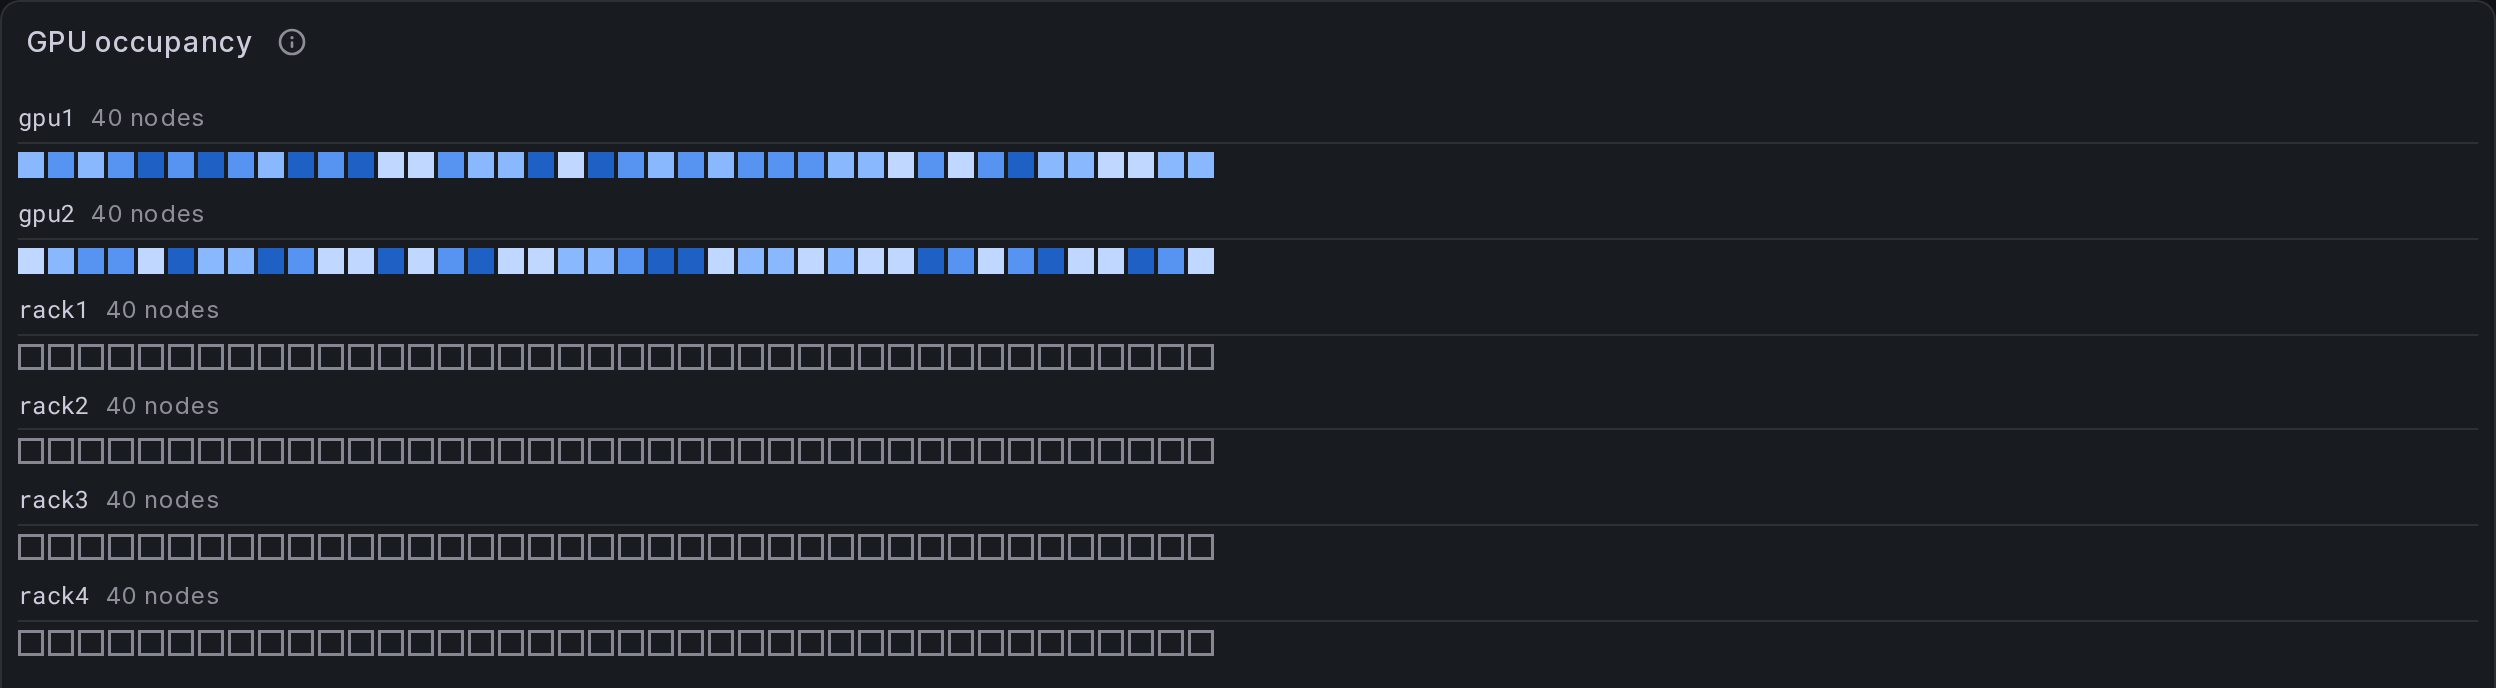
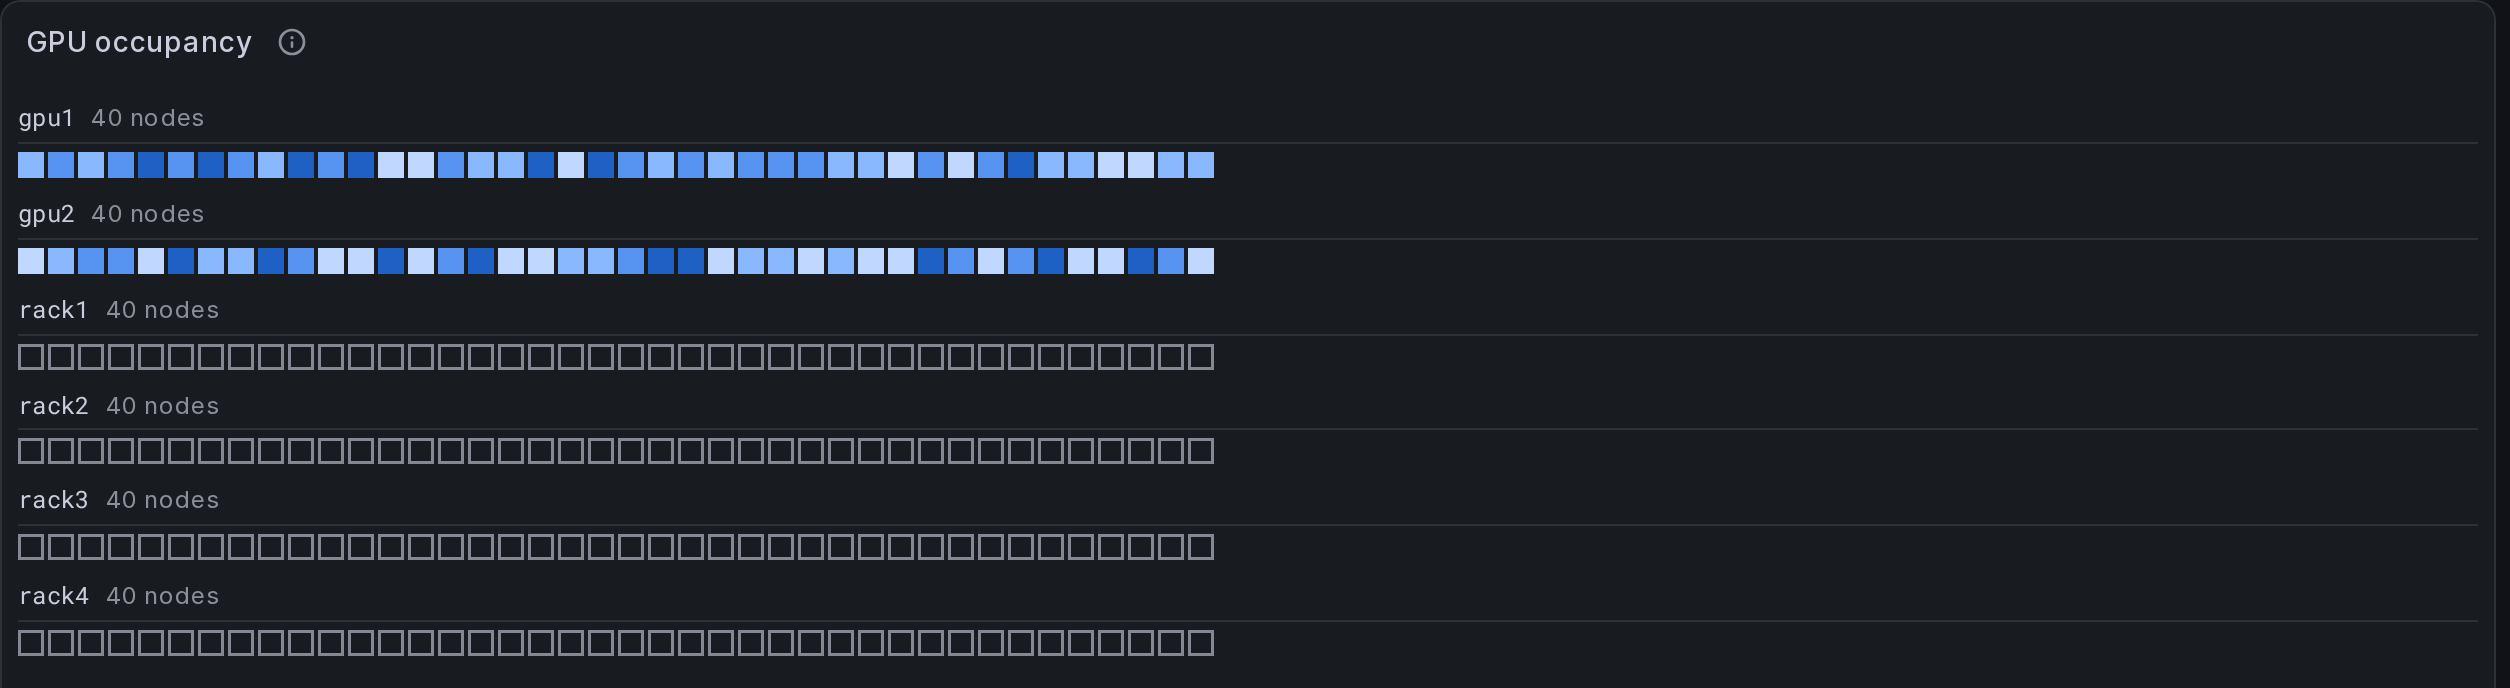
docs: show the six things the panel does, instead of describing them
Both READMEs argued for a visual panel in prose. The catalogue page had no
image at all beyond the four the manifest offers, and the repository page
had two.

Six new screenshots, one per capability that was only ever written down: a
mixed floor of two-wide and four-wide cabinets, a rack read with and
without the shape channel, the warnings strip naming two hundred nodes it
could not place, a tooltip over one cell, and the panel in a production
dashboard beside the counters it explains. The manifest offers three of
them to the catalogue.

They come from the same script as the existing four, extended rather than
worked around: it now hovers a cell and waits for the tooltip, frames a
whole dashboard at the height that dashboard actually needs, and includes
the panel title in the crop, which it had been shaving off. The four
existing images regenerate byte-identical apart from GPU occupancy, whose
fixture rolls fresh values on every scrape.

The catalogue resolves nothing relative, so the panel README's images are
absolute. Grafana's own validator says so, and now passes.

diff --git a/plugins/nodegrid-panel/src/README.md b/plugins/nodegrid-panel/src/README.md
@@ -10,6 +10,8 @@ series. This panel groups by node identity first, and says how many distinct
 nodes and how many drawn cells that produced whenever the two numbers
 disagree.
 
+![Six cabinets, one sled per node, coloured by Slurm state](https://raw.githubusercontent.com/SckyzO/grafana-plugin-slurm-panel/main/plugins/nodegrid-panel/src/img/node-grid-by-rack.png)
+
 ## Data
 
 One required query, plus a set of optional named facets. Each is bound
@@ -38,6 +40,11 @@ plugin's repository is a worked example: its panel's `options.queries` and
 `options.labels` bind every role except the two memory facets, which the
 **Memory occupancy** panel of
 `dev/provisioning/dashboards/slurm-node-utilisation.json` shows instead.
+
+Hovering a cell reads everything the panel joined for that node, whichever
+facets the queries bound:
+
+![A tooltip over one cell, naming the node, its state, its partitions and its CPU allocation](https://raw.githubusercontent.com/SckyzO/grafana-plugin-slurm-panel/main/plugins/nodegrid-panel/src/img/node-grid-tooltip.png)
 
 ## Grouping
 
@@ -172,6 +179,8 @@ supported. Neither is a cabinet that mixes blade sizes within itself:
 the drawing true. A group with no declaration keeps one sled per node, a
 vertical stack that makes no claim about where anything sits sideways.
 
+![A floor mixing two-wide and four-wide cabinets, each standing on the same line](https://raw.githubusercontent.com/SckyzO/grafana-plugin-slurm-panel/main/plugins/nodegrid-panel/src/img/node-grid-blades.png)
+
 ### Cabinet height
 
 In the Rack layout every cabinet stands on a common floor, levelled to the
@@ -199,6 +208,8 @@ the rows that do not fit spill above the frame and the warnings strip names
 it. Nothing is ever hidden, because a node that exists and is not drawn is a
 node nobody is watching.
 
+![A half-filled cabinet stands on the floor, its empty slots above it](https://raw.githubusercontent.com/SckyzO/grafana-plugin-slurm-panel/main/plugins/nodegrid-panel/src/img/node-grid-heights.png)
+
 ## Colour
 
 **Display > Colour by** picks one encoding for the cell fill at a time:
@@ -219,11 +230,19 @@ noise at a couple thousand. A cell always names its node and state in
 words, in the tooltip and in its accessible label, regardless of which
 colour mode is active, so meaning never rests on colour alone.
 
+![GPU occupancy across six racks, with the GPU-less nodes drawn empty rather than coloured](https://raw.githubusercontent.com/SckyzO/grafana-plugin-slurm-panel/main/plugins/nodegrid-panel/src/img/node-grid-gpu.png)
+
 **Display > Shape channel** adds a second encoding, on by default: a notch
 or a diagonal cut into the cell for the states that most need to stay
 visible without colour. With it on, the grid stays readable in greyscale, in
 print, under `forced-colors`, and for a red-green colour deficiency,
 whatever palette the site chose.
+
+The same rack drawn both ways. A notch survives what hue does not:
+
+| Shape channel on | Shape channel off |
+|---|---|
+| ![A rack of down nodes, each cell notched](https://raw.githubusercontent.com/SckyzO/grafana-plugin-slurm-panel/main/plugins/nodegrid-panel/src/img/node-grid-shapes.png) | ![The same rack, flat fills only](https://raw.githubusercontent.com/SckyzO/grafana-plugin-slurm-panel/main/plugins/nodegrid-panel/src/img/node-grid-noshapes.png) |
 
 ### The states, and the colour each one gets
 
@@ -276,6 +295,8 @@ seven leave the state readable and are absorbed by the trailing `.*`, which is
 why one rule covers `idle`, `idle#` and `idle@` together. `-` keeps its own
 rule so the label can say "backfill", and shares its family's colour because an
 operator does not act differently on a backfilled node.
+
+![Every Slurm state the panel ships a rule for, each drawn in its colour](https://raw.githubusercontent.com/SckyzO/grafana-plugin-slurm-panel/main/plugins/nodegrid-panel/src/img/node-grid-states.png)
 
 ### Adding or changing a state
 
@@ -354,6 +375,8 @@ not fully resolve:
   Group by > Label.` It is measured, never acted on; the panel does not
   switch sources by itself.
 
+![A warnings strip naming 200 unplaced nodes above a grid that still draws every one of them](https://raw.githubusercontent.com/SckyzO/grafana-plugin-slurm-panel/main/plugins/nodegrid-panel/src/img/node-grid-unplaced.png)
+
 Four kinds of label are never proposed, however well they would score, so
 their absence from that line is not a bug:
 
@@ -371,3 +394,11 @@ the active source does. One that merely ties says nothing.
 A state matching no mapping keeps its raw text; Grafana would colour it with
 the threshold base colour (green, by default) rather than a mapped one, so
 the cell deliberately refuses that colour and draws a hollow ring instead.
+
+## In a dashboard
+
+The panel is a floor plan, not a summary: it sits below the counters rather
+than replacing them, and answers the question they raise — *which* nodes, and
+*where*.
+
+![A production dashboard: gauges and counters above, the floor plan and a table of drain reasons below](https://raw.githubusercontent.com/SckyzO/grafana-plugin-slurm-panel/main/plugins/nodegrid-panel/src/img/node-grid-dashboard.png)

diff --git a/README.md b/README.md
@@ -27,11 +27,15 @@ The value of this panel is the join and the density, not new data.
 **One cell per node.** Distinct nodes, not series. A node in three partitions
 is one cell, and the panel says so when a node is drawn more than once.
 
+![A tooltip over one cell, naming the node, its state, its partitions and its CPU allocation](plugins/nodegrid-panel/src/img/node-grid-tooltip.png)
+
 **A floor plan, not a grid.** The rack layout draws each group as a cabinet:
 sleds wide and short, filling from the floor. A chassis holding several nodes
 is described by **Nodes per blade**, and a cabinet's real height by **Slots per
 rack**, so a half-filled rack stands on the floor with its empty slots above it
 rather than hanging from the ceiling.
+
+![A floor mixing two-wide and four-wide cabinets, each standing on the same line](plugins/nodegrid-panel/src/img/node-grid-blades.png)
 
 ![A half-filled rack stands on the floor, with its empty slots above it](plugins/nodegrid-panel/src/img/node-grid-heights.png)
 
@@ -41,6 +45,8 @@ stopped answering, it is broken, it is gone. What works is drawn light and what
 is broken is drawn dark, because protanopia and deuteranopia collapse red
 against green and keep light against dark. A shape channel ships **on**, because
 the fill alone could not be trusted to separate the states that matter most.
+
+![Every Slurm state the panel ships a rule for, each drawn in its colour](plugins/nodegrid-panel/src/img/node-grid-states.png)
 
 **Grouping it does not invent.** Three routes to a topology, separated by the
 privilege each needs: Prometheus relabelling at scrape time, a join
@@ -52,6 +58,15 @@ it cannot resolve, in a warnings strip above the grid.
 was declared; a state with no value mapping is drawn hollow and named rather
 than coloured by accident. A node missing from a supervision view is a worse
 failure than a node drawn in the wrong place.
+
+![A warnings strip naming 200 unplaced nodes above a grid that still draws every one of them](plugins/nodegrid-panel/src/img/node-grid-unplaced.png)
+
+## In a dashboard
+
+It sits below the counters rather than replacing them, and answers the
+question they raise — *which* nodes, and *where*.
+
+![A production dashboard: gauges and counters above, the floor plan and a table of drain reasons below](plugins/nodegrid-panel/src/img/node-grid-dashboard.png)
 
 ## Installing
 
